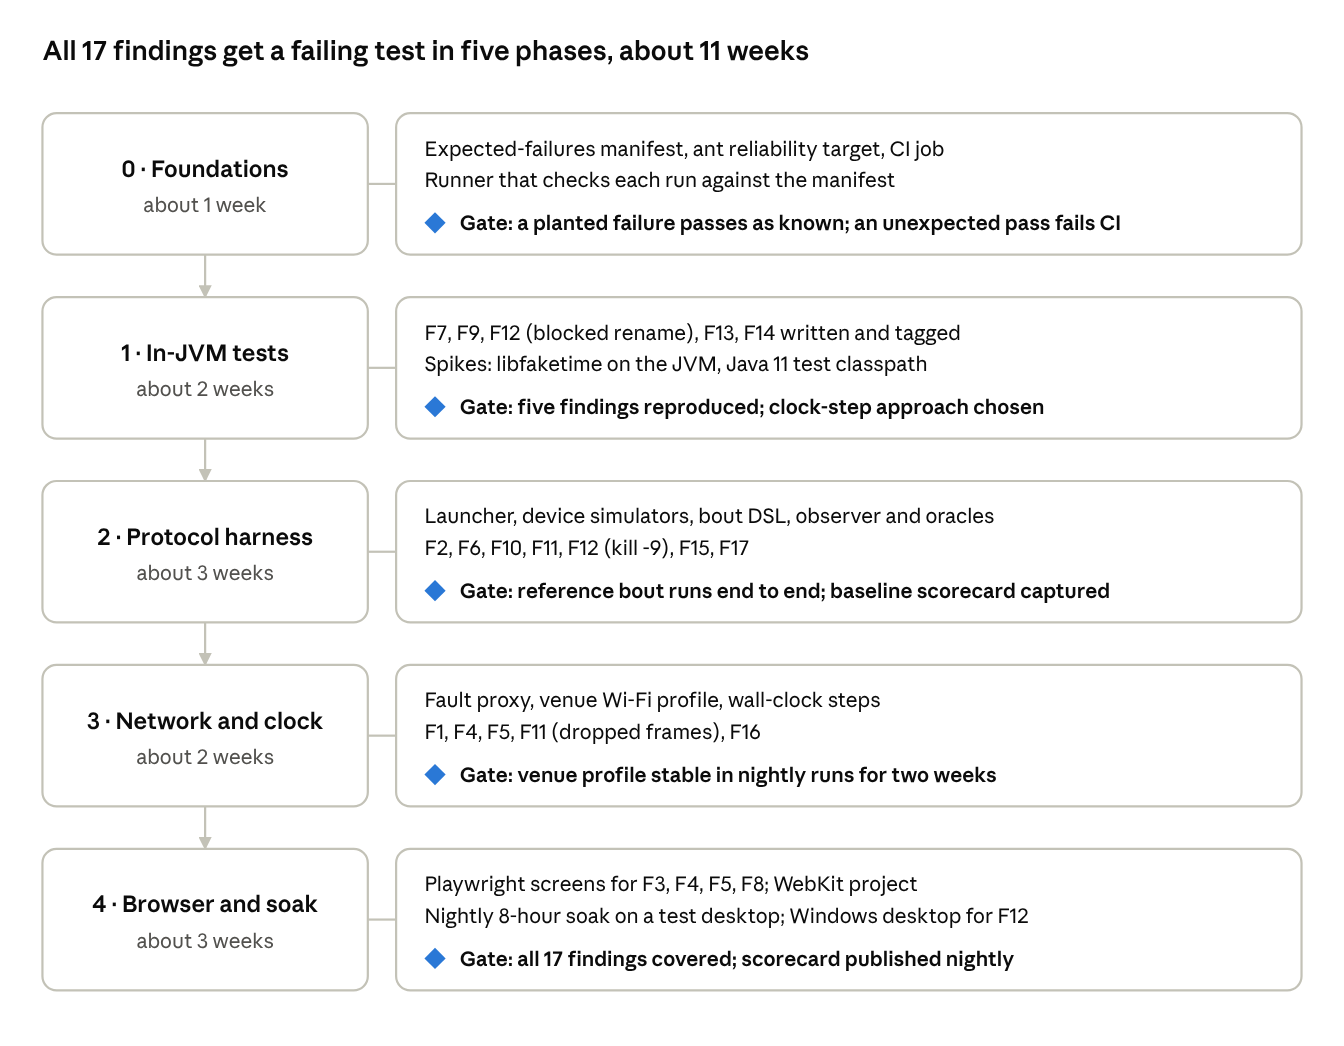
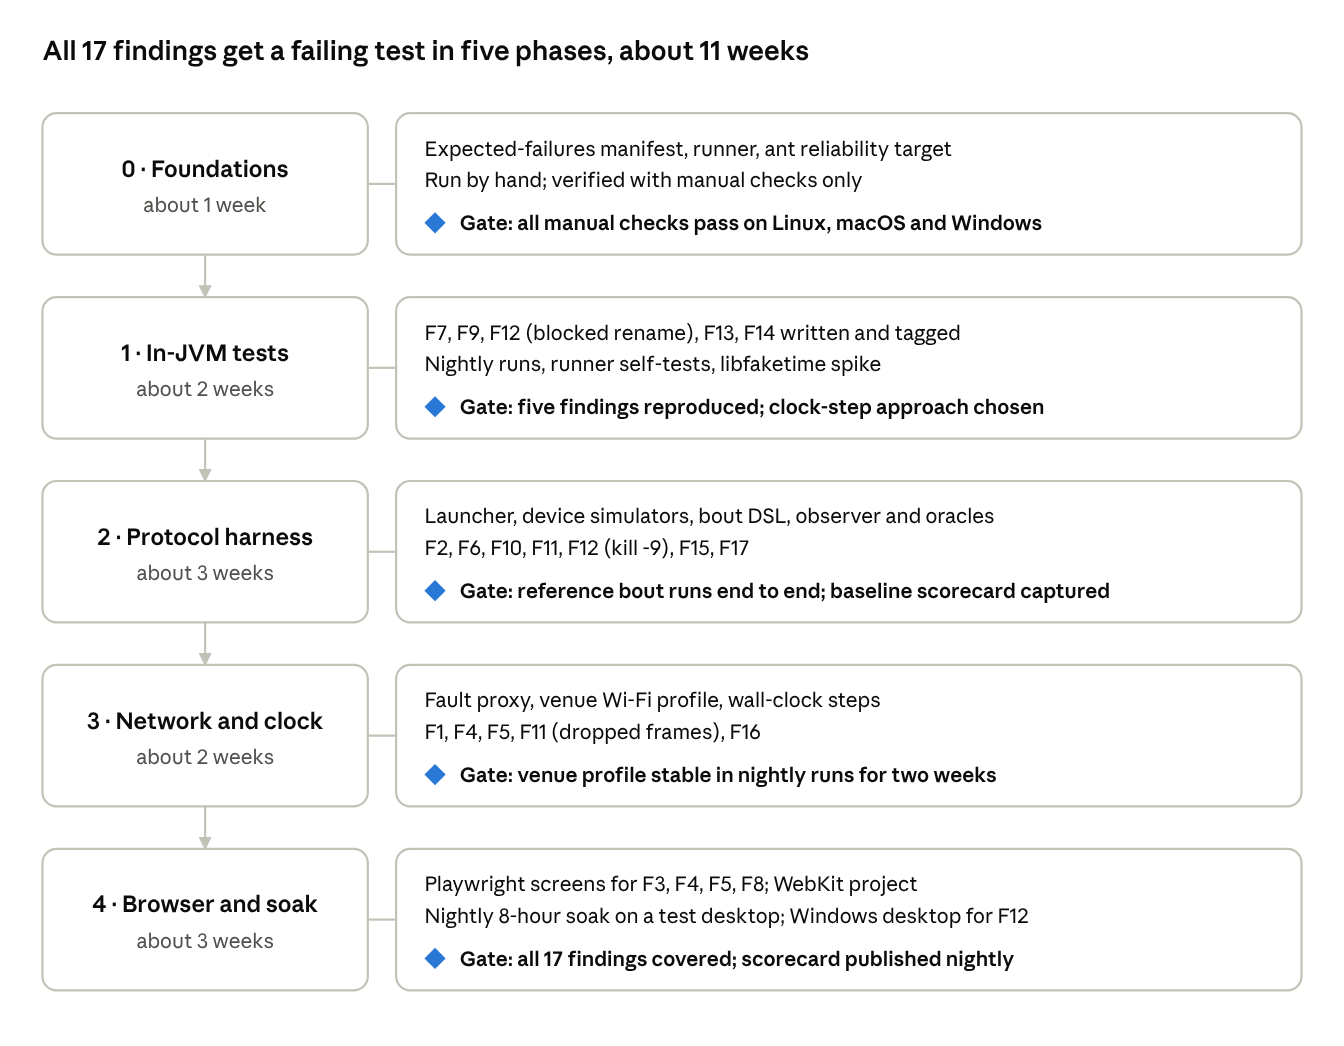
Phase 0: manual runs and manual verification only
Drop nightly scripts and the runner's automated self-tests from Phase 0;
replace them with a manual verification checklist (M1-M13). Scheduled
runs and runner self-tests move to Phase 1.

Claude-Session: https://claude.ai/code/session_01HZ4Y3PRWU9sq91ay1TwhwM

Changed region(s): [[0.3438, 0.1224, 0.8125, 0.2447], [0.3125, 0.3365, 0.6875, 0.3671]]

diff --git a/docs/phase0-foundations.md b/docs/phase0-foundations.md
@@ -2,7 +2,7 @@
 
 Status: ready to implement · Parent plan: [README.md](../README.md) · Oct 13, 2026
 
-Phase 0 builds the machinery every later reliability test depends on: a self-contained `reliability/` tree in a fork of `rollerderby/scoreboard`, a JSON manifest of expected failures, a runner that judges each run against that manifest, and nightly scripts for the dedicated test desktops. It adds no tests for real findings; those start in Phase 1.
+Phase 0 builds the machinery every later reliability test depends on: a self-contained `reliability/` tree in a fork of `rollerderby/scoreboard`, a JSON manifest of expected failures, and a runner that judges each run against that manifest. Everything in Phase 0 is run and checked by hand: there are no scheduled runs and no automated tests of the runner itself. Section 12 lists the manual checks that verify it. Phase 0 adds no tests for real findings; those start in Phase 1, together with scheduled runs and the runner's automated self-tests.
 
 This document is written so an agent can implement it without further questions. Where a choice was open, it is decided here.
 
@@ -15,7 +15,8 @@ This document is written so an agent can implement it without further questions.
 | Language and level | Java, compiled with `source`/`target` 1.8, JUnit 4.13.2 and Hamcrest 2.2 from `test-libs/`. |
 | Dependencies | Only jars already in the repo: `lib/deps/*.jar` (jackson-jr is used for JSON) and `test-libs/*.jar`. No downloads, no new jars. |
 | Manifest | JSON, parsed with jackson-jr (`com.fasterxml.jackson.jr.ob.JSON`). |
-| Where it runs | Dedicated desktops running Linux, Windows and macOS: manual runs plus a nightly scheduled job. No CI job in Phase 0. |
+| Where it runs | Dedicated desktops running Linux, Windows and macOS, started by hand. No scheduled jobs and no CI in Phase 0. |
+| How Phase 0 is verified | Manual checks only (section 12). No automated self-tests of the runner until Phase 1. |
 | Known-issue mechanism | The manifest only. No annotations or JUnit rules on test classes. |
 
 ## 2. Prerequisites (owner: Charles)
@@ -29,7 +30,6 @@ This document is written so an agent can implement it without further questions.
 - Upstream develops on `dev` (its default branch); `master` there is an older branch and is not used. The fork's `dev` mirrors upstream `dev` and is not committed to directly.
 - A long-lived branch `reliability` carries the suite. It is created from upstream `dev` at the start of Phase 0 and periodically merged forward from upstream.
 - Phase 0 work happens on `reliability-phase0`, branched from `reliability`, and lands as one pull request into `reliability` in the fork.
-- Nightly runs check out `reliability`.
 
 ## 4. Directory layout
 
@@ -58,17 +58,6 @@ reliability/
       CanaryReliabilityTest.java
     com/carolinarollergirls/scoreboard/reliability/smoke/
       ProductLoadsReliabilityTest.java
-  selftest/                       unit tests of the runner itself
-    com/carolinarollergirls/scoreboard/reliability/runner/
-      ManifestTest.java
-      EvaluatorTest.java
-      RateOutcomeTest.java
-      EndToEndTest.java
-    resources/                    sample manifests used by the self-tests
-  scripts/
-    run-nightly.sh                Linux and macOS
-    run-nightly.ps1               Windows
-    com.crg.reliability.nightly.plist   launchd sample for macOS
   build/                          generated, git-ignored
 ```
 
@@ -94,6 +83,7 @@ Properties (all paths relative to `reliability/`):
 | `manifest.file` | `expected-failures.json` |
 | `class.timeout.seconds` | `600` |
 | `rate.scale` | `1.0` |
+| `only` | empty; when set, passed to the runner as `--only <value>` |
 
 Targets:
 
@@ -102,9 +92,7 @@ Targets:
 | `product` | — | `<ant antfile="${repo.dir}/build.xml" dir="${repo.dir}" target="compile" inheritAll="false"/>`. Builds product classes into `build-ant/` exactly as upstream does. |
 | `compile-runner` | `product` | Compiles `src/` to `build/runner-classes`. Classpath: product classes, `lib/deps/*.jar`, JUnit and Hamcrest. |
 | `compile-tests` | `compile-runner` | Compiles `tests/` to `build/test-classes`. Same classpath plus runner classes. |
-| `compile-selftest` | `compile-runner` | Compiles `selftest/` to `build/selftest-classes`, and copies `selftest/resources/` there. |
-| `selftest` | `compile-selftest`, `compile-tests` | Runs the self-tests with Ant's `<junit fork="true" haltonfailure="yes">`. A self-test failure stops the build. |
-| `reliability` | `selftest` | Runs `ReliabilityMain` in a forked JVM with the arguments in section 7, then fails the build if its exit code is not 0. |
+| `reliability` | `compile-tests` | Runs `ReliabilityMain` in a forked JVM with the arguments in section 7, then fails the build if its exit code is not 0. |
 | `clean` | — | Deletes `build/`. Never touches product build output. |
 
 All `javac` tasks use `source="1.8" target="1.8" includeantruntime="false" debug="true"` with `-Xlint:all -Xlint:-serial -Xlint:-options`, matching the root build.
@@ -155,7 +143,7 @@ java -cp <classpath> com.carolinarollergirls.scoreboard.reliability.runner.Relia
   --classpath <cp>               required; classpath for the child JVMs
   --class-timeout <seconds>      default 600
   --only <regex>                 optional; run only classes whose name matches (find)
-  --in-process                   optional; run classes in this JVM instead of forking (used by self-tests)
+  --in-process                   optional; run classes in this JVM instead of forking (for debugging one class)
 ```
 
 ### Behaviour
@@ -169,7 +157,7 @@ java -cp <classpath> com.carolinarollergirls.scoreboard.reliability.runner.Relia
 
 ## 8. Verdicts
 
-`Evaluator` is a pure function from (list of `TestResult`, `Manifest`) to a verdict per test, plus a verdict for each manifest entry that matched no result. It has no I/O so it can be unit-tested exhaustively.
+`Evaluator` is a pure function from (list of `TestResult`, `Manifest`) to a verdict per test, plus a verdict for each manifest entry that matched no result. It has no I/O, so it is easy to cover with automated self-tests when those arrive in Phase 1.
 
 | Verdict | Condition | Blocks the run |
 | --- | --- | --- |
@@ -201,7 +189,7 @@ public final class RateTest {
 }
 ```
 
-`RateOutcome.parse(failureText)` extracts `failures`, `iterations` and `rate` from that message format, and returns empty for any other text. `rate.scale` is set to `1.0` for manual runs; the nightly scripts pass `4.0`.
+`RateOutcome.parse(failureText)` extracts `failures`, `iterations` and `rate` from that message format, and returns empty for any other text. `rate.scale` defaults to `1.0`; pass `-Drate.scale=<n>` to run more iterations.
 
 ## 10. Report output (`build/report/`)
 
@@ -209,7 +197,7 @@ public final class RateTest {
 | --- | --- |
 | `results.json` | One object per test: `test`, `finding` (or null), `kind`, `status`, `verdict`, `failureText`, `durationMs`, and for rate tests `observedRate` and `baselineRate`. |
 | `summary.txt` | A fixed-width table sorted by verdict severity, then by test name, followed by a line of counts per verdict and the overall result. The same text is printed to stdout. |
-| `scorecard.json` | The run-level record for trend tracking (fields below). |
+| `scorecard.json` | The run-level record for later trend tracking (fields below). |
 | `logs/<ClassName>.log` | Child JVM output. |
 
 `scorecard.json` fields:
@@ -247,59 +235,42 @@ Both stay in the suite permanently. If the mechanism ever breaks, the canary tur
 
 - `scoreBoardStartsInWorkDir`: asserts `Version.load()` returns true, then constructs `new ScoreBoardImpl(false)`. It asserts that `getCurrentGame()` is not null and that `html/images/teamlogo` now exists under the child's working directory, not the repo. This proves that product classes, `release.properties` and `lib/deps` are on the child classpath, and that `BasePath` (the current directory) points at the per-class work dir, which Phase 1 relies on. The test must pass and is not listed in the manifest.
 
-### Self-tests (`selftest/`, run by the `selftest` target)
+### No automated self-tests yet
 
-- `ManifestTest`: loads valid samples. Rejects each validation error in section 6 with a message naming the entry.
-- `EvaluatorTest`: one test per row of the verdict table, plus `--only` filtering and the `STALE_ENTRY` rule.
-- `RateOutcomeTest`: round-trips `RateTest`'s message format; rejects other text; checks `rate.scale` rounding (at least 1 iteration).
-- `EndToEndTest`: runs `ReliabilityMain --in-process` against the canary class with three temp manifests and checks the exit code and verdicts:
-  1. The real manifest: exit 0, verdicts `KNOWN` and `PASS`.
-  2. The canary entry removed: exit 1, `NEW_FAILURE`.
-  3. A manifest that also lists `plantedPassIsReportedAsPass`: exit 1, `UNEXPECTED_PASS`.
+The runner's own behaviour is verified by the manual checks in section 12. Automated self-tests of the manifest loader, the evaluator and the rate parser are deferred to Phase 1.
 
-## 12. Nightly scripts
+## 12. Manual verification
 
-Both scripts take the same settings from environment variables:
+Each check is done by hand from the root of a fresh clone of the fork on `reliability-phase0`. Temporary edits are made in the working tree only and reverted afterwards with `git checkout -- reliability`. "Run" means `ant -f reliability/build.xml`, and each check states the expected exit status, verdicts and files.
 
-| Variable | Default | Meaning |
-| --- | --- | --- |
-| `CRG_RELIABILITY_REPO` | the repo containing the script | Path to the fork checkout. |
-| `CRG_RELIABILITY_BRANCH` | `reliability` | Branch to test. |
-| `CRG_RELIABILITY_HISTORY` | `~/.crg-reliability/history` (`%USERPROFILE%\.crg-reliability\history` on Windows) | Where run reports are archived. |
-| `CRG_RELIABILITY_KEEP` | `90` | Number of archived runs kept. |
-
-Steps, identical in both scripts:
-
-1. `git fetch origin`, then `git checkout <branch>` and `git reset --hard origin/<branch>`. The checkout is dedicated to testing, so a hard reset is intended. Refuse to run if the working tree path contains no `reliability/build.xml`.
-2. `ant -f reliability/build.xml clean reliability -Drate.scale=4.0`, capturing combined output to `run.log`.
-3. Copy `reliability/build/report/` and `run.log` to `<history>/<UTC timestamp>-<short commit>/`.
-4. Delete the oldest archived runs beyond `CRG_RELIABILITY_KEEP`.
-5. Exit with Ant's exit code.
-
-`run-nightly.sh` is POSIX `sh` with `set -eu`, and must work on both Linux and macOS (no GNU-only flags; use `date -u +%Y%m%dT%H%M%SZ`). `run-nightly.ps1` targets Windows PowerShell 5.1 and uses `$LASTEXITCODE`.
-
-`reliability/README.md` documents scheduling for each OS:
-
-- Linux: a crontab line running at 02:30 local time.
-- macOS: the `com.crg.reliability.nightly.plist` launchd sample (`StartCalendarInterval` 02:30), with the `launchctl load` command.
-- Windows: a `schtasks /Create /SC DAILY /ST 02:30 /TN CRG-Reliability-Nightly /TR "powershell -NoProfile -ExecutionPolicy Bypass -File <path>\run-nightly.ps1"` command.
+| # | Check | Steps | Expected |
+| --- | --- | --- | --- |
+| M1 | Normal run | Run. | Exit 0. Summary shows `KNOWN` for `plantedFailureIsReportedAsKnown`, `PASS` for `plantedPassIsReportedAsPass` and `scoreBoardStartsInWorkDir`. |
+| M2 | Report files | After M1, open `reliability/build/report/`. | `results.json`, `summary.txt`, `scorecard.json` and `logs/` exist; `scorecard.json` has every field in section 10 and `blocking: false`. |
+| M3 | Work dir isolation | After M1, look under `reliability/build/work/` and the repo's `html/images/`. | `html/images/teamlogo` exists under the smoke test's work dir; nothing new appears in the repo's own `html/`. |
+| M4 | New failure | Delete the canary entry from the manifest, run. | Build fails; `NEW_FAILURE` for the planted failure. |
+| M5 | Unexpected pass | Make `plantedFailureIsReportedAsKnown` return normally, run. | Build fails; `UNEXPECTED_PASS` naming `F0`. |
+| M6 | Wrong failure | Change the canary's `messagePattern` to `something else`, run. | Build fails; `WRONG_FAILURE`. |
+| M7 | Stale entry | Add an entry for `...CanaryReliabilityTest#noSuchMethod`, run. | Build fails; `STALE_ENTRY`. |
+| M8 | `--only` filter | With M7's entry still present, run with `-Donly=smoke`. | Exit 0; only the smoke class runs; no `STALE_ENTRY`. |
+| M9 | Invalid manifests | One at a time: break the JSON; duplicate an entry; set `finding` to `X1`; set `messagePattern` to `(`; add an unknown field. Run each. | Exit code 2 before any test runs, with a message naming the problem and the entry. |
+| M10 | Timeout | Add a temporary `SleepReliabilityTest` whose test sleeps 60 s; run with `-Dclass.timeout.seconds=5`. | Build fails; the method shows `NEW_FAILURE` with failure text `TIMEOUT after 5s`, and the run continues to the other classes. |
+| M11 | Rate verdicts | Add a temporary test calling `RateTest.run(10, …)` that fails on iteration 3 only, with a `rate` entry and `baselineRate` 0.1; run. Then set `baselineRate` to 0.05 and run again. | First run: `KNOWN_RATE` at 0.1, exit 0. Second run: `RATE_REGRESSION` warning, exit still 0. |
+| M12 | Existing build untouched | Run `ant test`, then `ant compile`. | Same results as on upstream `dev`; nothing under `reliability/` is compiled or run. |
+| M13 | No existing file changed | `git diff --stat <upstream dev>...HEAD -- . ':(exclude)reliability'` | Prints nothing. |
 
 ## 13. Acceptance criteria (the Phase 0 gate)
 
-Run all of these from the root of a fresh clone of the fork on branch `reliability-phase0`. They must hold on at least one Linux, one macOS and one Windows desktop.
+Phase 0 is done when every manual check M1–M13 passes on at least one Linux, one macOS and one Windows desktop. The pull request into `reliability` records the results as a table: one row per check, one column per OS, each cell pass or fail with the date and tester. M12 and M13 only need to be run once, on any OS.
 
-1. `ant -f reliability/build.xml` exits 0. The summary shows `KNOWN` for the planted failure, and `PASS` for the planted pass and the smoke test.
-2. Deleting the canary entry from `expected-failures.json` makes the same command exit non-zero with `NEW_FAILURE`. Restore it afterwards.
-3. Changing `plantedFailureIsReportedAsKnown` to pass makes the command exit non-zero with `UNEXPECTED_PASS`. Revert afterwards.
-4. `ant test` and `ant compile` behave exactly as on upstream `dev`, and do not compile or run anything under `reliability/`.
-5. `git diff --stat <upstream dev>...HEAD -- . ':(exclude)reliability'` prints nothing: no existing file was changed.
-6. `scripts/run-nightly.sh` (on Linux and macOS) and `scripts/run-nightly.ps1` (on Windows) each produce an archived run with `scorecard.json` whose `blocking` is `false`.
-7. Every self-test passes, and `selftest` runs as part of the default target.
+The implementing agent runs M1–M13 on Linux in its own environment before opening the pull request and fills in that column; a person runs the macOS and Windows columns.
 
 ## 14. Out of scope for Phase 0
 
 - Any test for findings F1–F17 (Phase 1 onward).
 - The protocol harness, device simulators, fault proxy and libfaketime (Phases 2–3).
+- Scheduled or nightly runs, their scripts, and archiving of past reports (Phase 1).
+- Automated self-tests of the runner (Phase 1).
 - CI integration on CircleCI or GitHub Actions.
-- Charts or dashboards of the scorecard history. Phase 0 only archives the JSON.
+- Charts or dashboards of the scorecard history. Phase 0 only writes `scorecard.json` for each run.
 - Moving to Java 11. Reconsider at the start of Phase 2, which needs `java.net.http.WebSocket`.

diff --git a/README.md b/README.md
@@ -102,7 +102,7 @@ The suite lands in five phases over about 11 weeks of one developer's time, and 
 
 ![All 17 findings get a failing test in five phases, about 11 weeks](images/rollout.png)
 
-Phase 0 is deliberately small so the known-issue convention is agreed before many tests depend on it. The week estimates are rough and assume someone who already knows the codebase.
+Phase 0 is deliberately small so the known-issue convention is agreed before many tests depend on it. It is run and verified by hand only; scheduled runs and the runner's automated self-tests start in Phase 1. The week estimates are rough and assume someone who already knows the codebase.
 
 ## Risks and open questions
 
